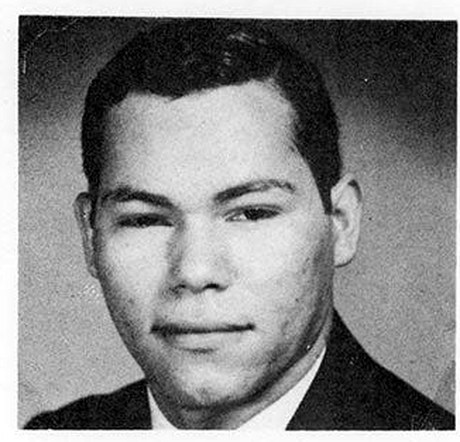
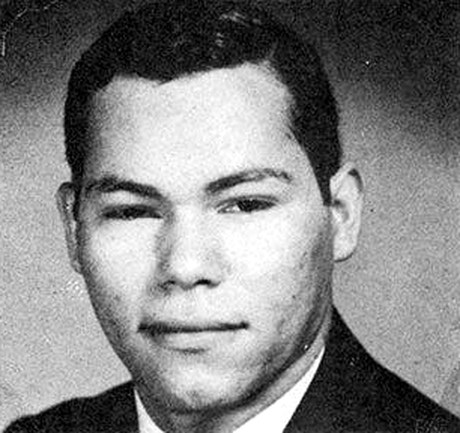
Correct Juan Otero from the appellate record; tighten his portrait
Updates the enrichment to the sourced legal facts (People v. Otero, 45
A.D.2d 952, 359 N.Y.S.2d 318): full name Juan Otero Jr.; convicted March
20, 1973 in Bronx County (jury) of burglary 2nd/3rd and grand larceny 3rd
(two counts) plus attempted grand larceny; sentenced to concurrent
indeterminate terms up to five years; conviction UNANIMOUSLY REVERSED and
a new trial ordered September 26, 1974 (identification testimony "casts
considerable doubt," improper bolstering). Adds the Puerto Rican Socialist
Party / Workers World defense context and notes actual time served is
undocumented (possible max custody ~555 days, Mar 20 1973 – Sep 26 1974).
Sets incarceration/sentenced dates. Also re-crops the flyer portrait
tighter to remove the white paper border around the photo.

Claude-Session: https://claude.ai/code/session_01CrKCjcvYcFYWnikaLWCPiB

diff --git a/app/Console/Commands/EnrichJuanOtero.php b/app/Console/Commands/EnrichJuanOtero.php
@@ -11,11 +11,13 @@ use Illuminate\Support\Facades\Storage;
 
 /**
  * Enriches Juan Otero's thin record from the "Free Juan Otero" defense flyer
- * (1973) now catalogued in the archive: a fuller sourced bio, the robbery
- * frame-up charges and five-year sentence, and the portrait cropped from the
- * flyer (non-free/fair-use; see CREDITS-nonfree.md). Updates the existing record
- * in place (the movement-archive importer skips names that already exist).
- * Idempotent.
+ * (1973) and the reported appellate record (People v. Otero, 45 A.D.2d 952, 359
+ * N.Y.S.2d 318): a fuller sourced bio, the burglary/grand-larceny charges,
+ * the March 20, 1973 Bronx County conviction (concurrent terms up to 5 years)
+ * and its unanimous reversal on September 26, 1974, plus the portrait cropped
+ * from the flyer (non-free/fair-use; see CREDITS-nonfree.md). Updates the
+ * existing record in place (the movement-archive importer skips names that
+ * already exist). Idempotent.
  */
 final class EnrichJuanOtero extends Command
 {
@@ -35,22 +37,29 @@ final class EnrichJuanOtero extends Command
         $prisoner->fill([
             'first_name' => 'Juan',
             'last_name' => 'Otero',
+            'aka' => 'Juan Otero Jr.',
             'gender' => 'Male',
             'race' => 'Hispanic',
             'state' => 'New York',
             'era' => '1970s',
-            'ideologies' => ['Community organizing'],
-            'affiliation' => ['Committee to Defend Juan Otero'],
-            'description' => 'Juan Otero was a Bronx family man, educational specialist, and community activist — a '
-                .'young father with no police record — working for equality in the building trades when he became the '
-                .'subject of a 1973 Puerto Rican movement defense campaign, "Free Juan Otero." The Committee to Defend '
-                .'Juan Otero (c/o Rev. Juan Otero, 535 Jackson Avenue, the Bronx) held that he had been framed on two '
-                .'robbery charges — no evidence was ever found in his home or car, and the robberies took place while '
-                .'he was visiting friends — through a personal vendetta by South Bronx police who knew him from his '
-                .'community work, in collaboration with corrupt construction contractors. Convicted by a jury after an '
-                .'attorney urged him not to "make a political case out of this," he was sentenced to five years in '
-                .'prison. The campaign linked his case to those of Angela Davis, the Berrigans, and Carlos Feliciano. '
-                .'(Sourced from the "Free Juan Otero" defense flyer now catalogued in the archive.)',
+            'ideologies' => ['Community organizing', 'Puerto Rican movement'],
+            'affiliation' => ['Committee to Defend Juan Otero', 'Puerto Rican Socialist Party'],
+            'description' => 'Juan Otero (Juan Otero Jr.) was a South Bronx Puerto Rican community activist and '
+                .'construction-trades anti-discrimination organizer — a family man, educational specialist, and young '
+                .'father with no prior police record — who led pickets against discriminatory hiring at New York '
+                .'building sites. On March 20, 1973 he was convicted after a jury trial in Bronx County, on '
+                .'consolidated indictments, of burglary in the second and third degrees, two counts of grand larceny '
+                .'in the third degree, and attempted grand larceny, and sentenced to concurrent indeterminate terms '
+                .'of up to five years. A defense campaign — the Committee to Defend Juan Otero and a Puerto Rican '
+                .'Socialist Party statement carried in Workers World — held that he had been framed on the burglary '
+                .'charges by "vengeful Bronx cops" and racist building-trades interests in retaliation for his '
+                .'organizing. On September 26, 1974 the Appellate Division unanimously reversed his conviction and '
+                .'ordered a new trial (People v. Otero, 45 A.D.2d 952, 359 N.Y.S.2d 318): his defense was alibi, the '
+                .'conviction rested entirely on identification testimony whose conflicting character "casts '
+                .'considerable doubt" on the charges, and the court found improper bolstering of that eyewitness '
+                .'identification. His exact arrest and release dates are not documented; he was imprisoned during '
+                .'1973, with a possible maximum documented custody of March 20, 1973 – September 26, 1974 (about 555 '
+                .'days) if held continuously.',
             'in_custody' => false,
             'released' => true,
             'in_exile' => false,
@@ -60,11 +69,18 @@ final class EnrichJuanOtero extends Command
 
         $case = $prisoner->cases()->first() ?? new PrisonerCase(['prisoner_id' => $prisoner->id]);
         $case->prisoner_id = $prisoner->id;
-        $case->charges = 'Two robbery charges — which the "Free Juan Otero" defense campaign (1973) called a frame-up '
-            .'by South Bronx police, in collaboration with corrupt building-trades contractors, in retaliation for his '
-            .'community organizing; no evidence was found in his home or car.';
-        $case->convicted = 'Yes — convicted by a jury (per the 1973 defense campaign).';
-        $case->sentence = 'Five years in prison.';
+        $case->charges = 'Burglary in the second and third degrees, two counts of grand larceny in the third degree, '
+            .'and attempted grand larceny (consolidated indictments, jury trial, Bronx County) — which the "Free Juan '
+            .'Otero" campaign and a Puerto Rican Socialist Party statement called a frame-up by Bronx police and '
+            .'building-trades interests in retaliation for his anti-discrimination organizing.';
+        $case->convicted = 'Convicted March 20, 1973 (jury, Bronx County); conviction unanimously reversed and a new '
+            .'trial ordered September 26, 1974 — People v. Otero, 45 A.D.2d 952, 359 N.Y.S.2d 318 (identification '
+            .'testimony "casts considerable doubt"; improper bolstering of eyewitness ID).';
+        $case->sentence = 'Concurrent indeterminate terms of up to five years (up to 5 years on each burglary count, '
+            .'up to 4 years on each grand-larceny count; unconditional discharge on the attempt). Actual time served '
+            .'not documented — possible maximum custody March 20, 1973 – September 26, 1974 (~555 days).';
+        $case->setPartialDate('incarceration_date', 1973, 3, 20);
+        $case->setPartialDate('sentenced_date', 1973, 3, 20);
         $case->save();
 
         $src = database_path('data/photos/nonfree/juan-otero.jpg');
